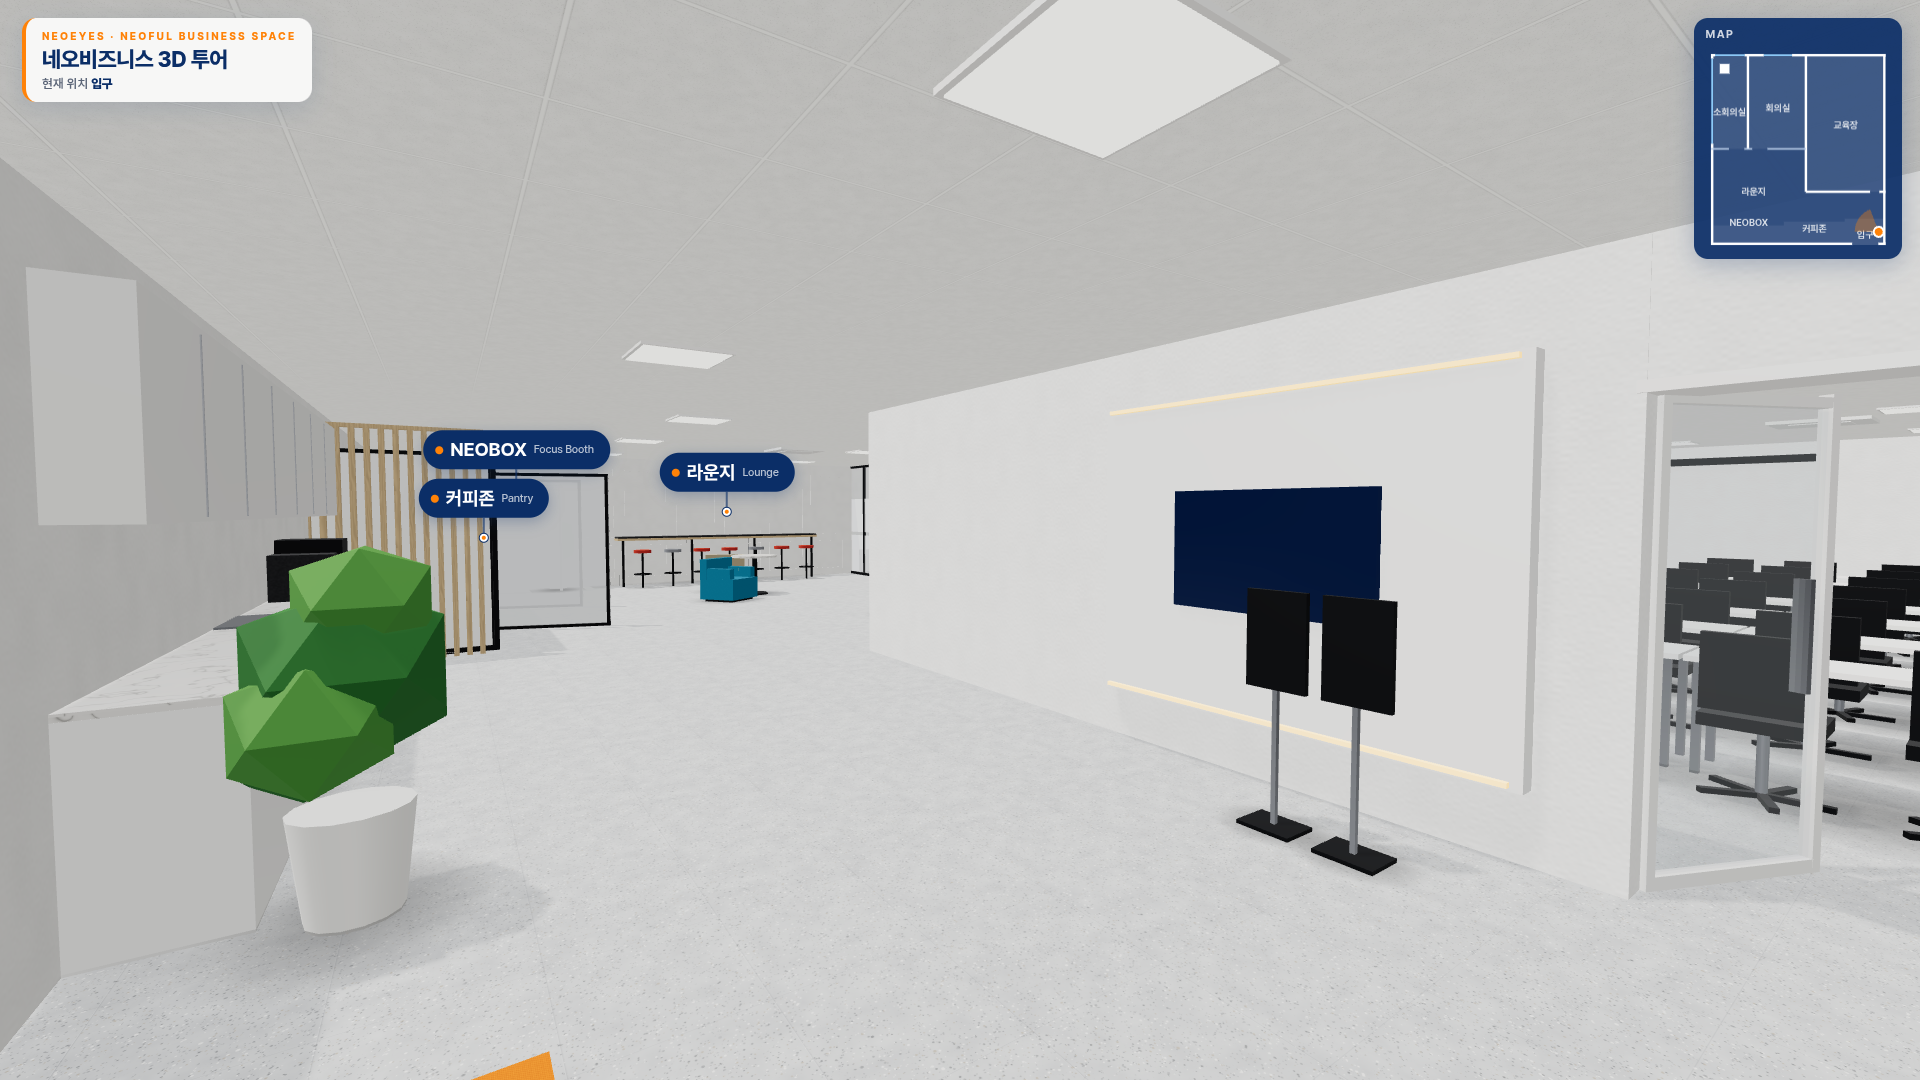
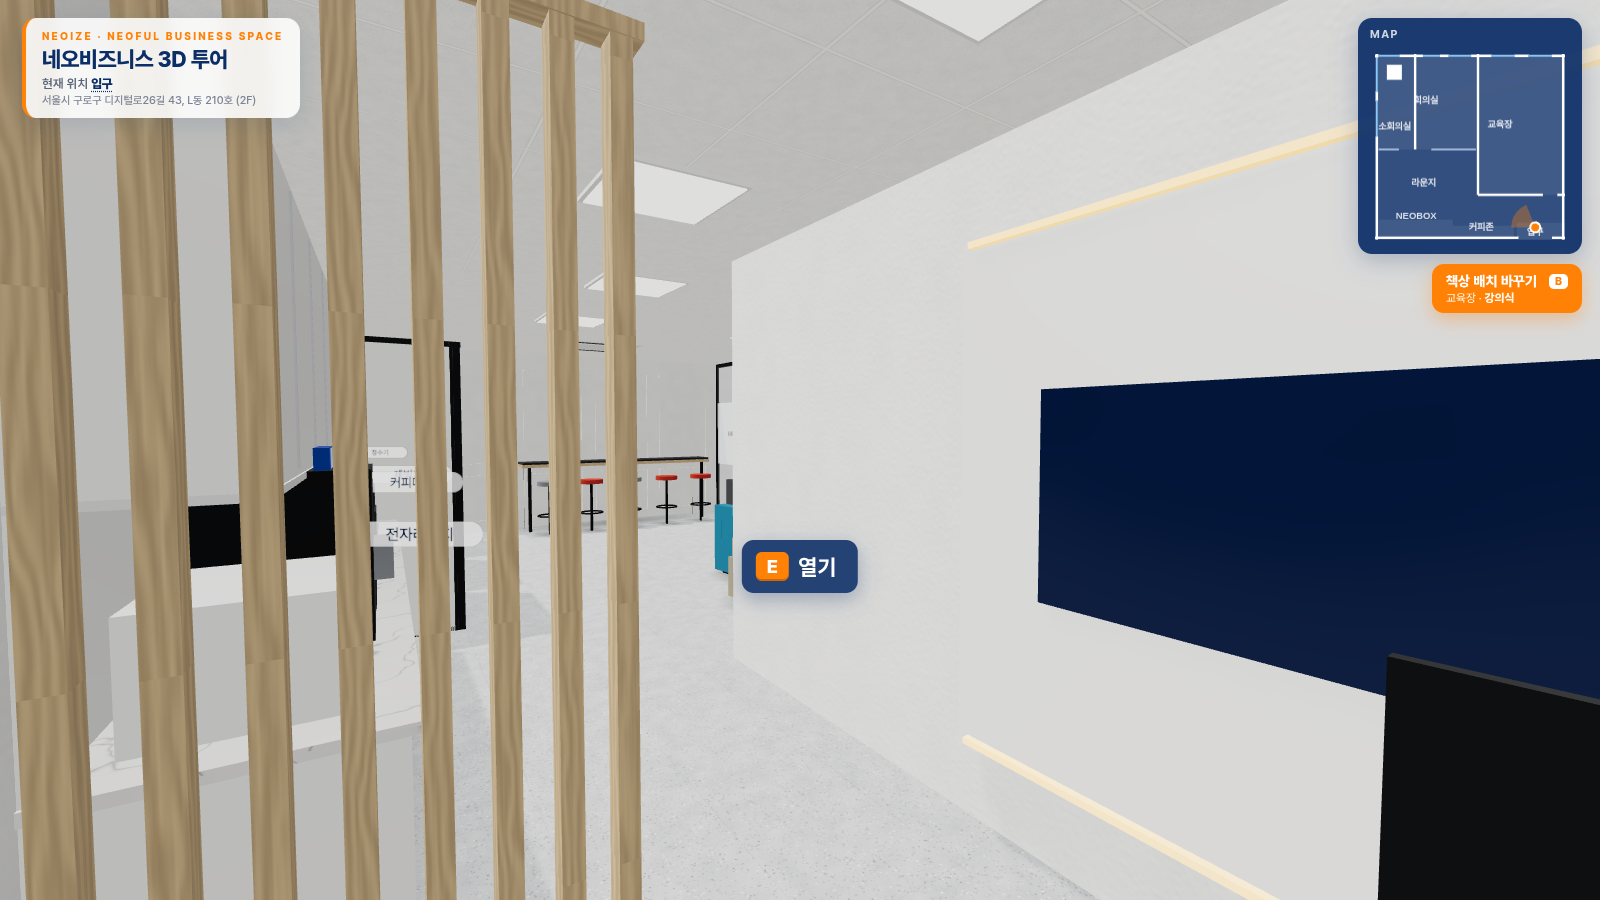
입구를 남쪽 벽 동쪽 끝(가벽 옆)으로, 커피존 카운터 x5.12–8.82, 정수기를 개수대 꼭지로, 교육장 스피커 서쪽 벽 2개

diff --git a/layout.js b/layout.js
@@ -54,14 +54,14 @@ window.LAYOUT = {
     { id:'focus', name:'NEOBOX', en:'Focus Booth · NEOBOX', small:true, rect:[0.24, 10.8, 5.1, 12.1], floor:'floor',
       label:[2.7, 10.55], labelY:2.35, jump:{ x:2.7, z:9.7, look:[2.7, 12.0] },
       card:{ photos:['IMG_0398','IMG_0397','IMG_0401','IMG_0403'],
-             desc:'NEOBOX1 · NEOBOX2 · NEOBOX3, 모니터와 책상이 있는 1인용 부스 3개예요. 커피존 바로 옆, 우드 슬랫 파티션 너머에 나란히 있어요.' } },
-    { id:'coffee', name:'커피존', en:'Pantry', small:true, rect:[7.05, 11.2, 12.45, 12.1], floor:'floor',
-      label:[8.65, 11.3], labelY:1.6, jump:{ x:10.9, z:10.5, look:[7.3, 11.7] },
+             desc:'NEOBOX1 · NEOBOX2 · NEOBOX3, 모니터와 책상이 있는 1인용 부스 3개예요. 남쪽 벽을 따라 커피존 카운터 바로 서쪽에 나란히 있어요.' } },
+    { id:'coffee', name:'커피존', en:'Pantry', small:true, rect:[5.1, 11.2, 9.1, 12.1], floor:'floor',
+      label:[6.97, 11.3], labelY:1.6, jump:{ x:7.0, z:9.9, look:[7.0, 11.8] },
       card:{ photos:['IMG_0386','IMG_0387','IMG_0398'],
              desc:'공용 사용 공간(LOUNGE & AMENITIES). 흰 상·하부장 카운터에 전자레인지, 커피머신, 얼음 디스펜서, 싱크가 있고 하부장에 분리수거함(일반쓰레기·플라스틱·캔/병)이 있어요. 입구 옆 우드 슬랫 가벽 바로 뒤예요.',
              services:['정수기','커피머신','제빙기','전자레인지','공기청정기','냉난방'] } },
-    { id:'entrance', name:'입구', en:'Entrance', small:true, rect:[5.1, 11.0, 7.05, 12.1], floor:'floor',
-      label:[6.05, 11.6], jump:{ x:6.05, z:11.4, look:[8.6, 7.4] },
+    { id:'entrance', name:'입구', en:'Entrance', small:true, rect:[9.3, 11.0, 12.45, 12.1], floor:'floor',
+      label:[10.5, 11.6], jump:{ x:10.5, z:11.3, look:[5.0, 7.6] },
       card:{ photos:['IMG_0378','IMG_0380','IMG_0388'],
              desc:'유리문 위에 Neoful business space 사인이 있는 입구예요. 들어오면 교육장 앞 디스플레이 월과 배너가 보여요.' } },
     { id:'lounge', name:'라운지', en:'Lounge', rect:[0, 6.22, 12.45, 12.1], floor:'floor',
@@ -110,9 +110,9 @@ window.LAYOUT = {
     { from:[0, 3.05],  to:[0, 5.38],  type:'window', outer:true, style:'tall', blind:0 },      // 소회의실 창 ② — 롤스크린 올림
     { from:[0, 5.38],  to:[0, 5.9],   type:'solid',  outer:true },
     { from:[0, 5.9],   to:[0, 12.1],  type:'solid',  outer:true, molding:'east', moldingFrom:6.35, moldingTo:10.7 },  // 라운지 몰딩 벽 (molding: 몰딩을 붙일 면, From~To 구간)
-    // 바깥벽 — 남쪽(아래), 입구 유리 양문 (x5.15–6.95, 가벽 바로 옆)
+    // 바깥벽 — 남쪽(아래), 입구 유리 양문 (동쪽 끝 x9.4–11.6, 가벽 바로 옆)
     { from:[0, 12.1],  to:[12.45, 12.1], type:'solid', outer:true,
-      openings:[ { at:5.15, width:1.8, door:'glass', double:true, entrance:true } ] },   // 입구 유리 양문 x5.15–6.95: NEOBOX3 과 가벽(슬랫, x7.05) 사이, 가벽 바로 옆 (사용자 11/19)
+      openings:[ { at:9.4, width:2.2, door:'glass', double:true, entrance:true } ] },   // 입구 유리 양문 x9.4–11.6: 남쪽 벽 동쪽 끝, 가벽(슬랫 x9.1) 바로 옆 (사용자 스케치 11/19 3차)
     // 바깥벽 — 동쪽(오른쪽)
     { from:[12.45, 0], to:[12.45, 12.1], type:'solid', outer:true },
 
@@ -172,11 +172,9 @@ window.LAYOUT = {
   /* ---------- 교육장 벽걸이 스피커 ----------
      x, z : 위치(벽 안쪽 면에서 약 0.12m), rot : 앞면이 향하는 방향(°, 180 = 남쪽, -90 = 동쪽, 90 = 서쪽)
      tilt : 아래로 숙인 각도(°), w·h·d : 크기(기본 0.25 × 0.35 × 0.2), top : 위 끝 높이(기본 천장 바로 아래)   */
-  speakers: [
-    { x:7.12,  z:0.36, rot:200 },   // 앞벽(북쪽) 왼쪽 모서리, 방 안쪽으로 살짝
-    { x:12.0,  z:0.36, rot:160 },   // 앞벽(북쪽) 오른쪽 모서리
-    { x:7.02,  z:7.6,  rot:-90 },   // 서쪽 벽 뒤쪽 (단상에서 본 사진)
-    { x:12.09, z:5.0,  rot:90 }     // 동쪽 벽 가운데
+  speakers: [   // 교육장 서쪽 벽 높은 곳, 동쪽(방 안)을 향함 — 사용자 스케치 11/19: 앞(단상 옆) 1개, 뒤 1개
+    { x:7.02, z:0.5, rot:-90 },
+    { x:7.02, z:8.2, rot:-90 }
   ],
 
   /* ---------- 교육장 책상 배치 (화면 오른쪽 위 "책상 배치 바꾸기" 버튼 / B 키로 순서대로 바뀜) ----------
@@ -220,7 +218,7 @@ window.LAYOUT = {
       lines:['연결 케이블: (예: HDMI) — 수정 필요', '리모컨 위치: (예: 강사 단상 서랍) — 수정 필요', '사용 방법: (예: 전원 → 입력 HDMI 선택) — 수정 필요'] },
     { id:'edu_screen', name:'전동 스크린', room:'교육장', box:[8.3, 0.5, 10.8, 0.8, 1.05, 2.7],
       lines:['내리기/올리기: (예: 벽 스위치) — 수정 필요', '크기: 약 2.4m 폭(3D 모델 기준)'] },
-    { id:'edu_speaker', name:'스피커', room:'교육장', boxes:[[6.9, 0.2, 7.35, 0.6, 2.2, 2.7], [11.8, 0.2, 12.25, 0.6, 2.2, 2.7], [6.88, 7.35, 7.25, 7.85, 2.2, 2.7], [11.9, 4.75, 12.25, 5.25, 2.2, 2.7]],
+    { id:'edu_speaker', name:'스피커', room:'교육장', boxes:[[6.85, 0.2, 7.3, 0.8, 2.2, 2.7], [6.85, 7.9, 7.3, 8.5, 2.2, 2.7]],
       lines:['음량 조절: (예: 앰프·리모컨 위치) — 수정 필요', '마이크: (예: 무선 마이크 2개) — 수정 필요'] },
     { id:'edu_ac', name:'에어컨', room:'교육장', box:[9.15, 3.45, 10.25, 4.55, 2.5, 2.75],
       lines:['리모컨/조작: (예: 출입문 옆 벽 컨트롤러) — 수정 필요'] },
@@ -239,13 +237,13 @@ window.LAYOUT = {
     { id:'mtg_table', name:'회의 테이블', room:'회의실', box:[4.14, 0.78, 5.12, 5.18, 0.6, 0.8],
       lines:['테이블 2개 · 12석', '전원: (예: 테이블 콘센트) — 수정 필요'] },
     // 커피존 (항상 이름 표시)
-    { id:'microwave', name:'전자레인지', room:'커피존', box:[9.52, 11.3, 10.02, 11.8, 0.9, 1.22], label:true,
+    { id:'microwave', name:'전자레인지', room:'커피존', box:[8.19, 11.3, 8.69, 11.8, 0.9, 1.22], label:true,
       lines:['사용 후 문을 닫아 주세요 (예시) — 수정 필요'] },
-    { id:'coffee', name:'커피머신', room:'커피존', box:[9.1, 11.3, 9.45, 11.8, 0.9, 1.62], label:true,
+    { id:'coffee', name:'커피머신', room:'커피존', box:[7.77, 11.3, 8.12, 11.8, 0.9, 1.62], label:true,
       lines:['사용 방법: (예: 컵 올리고 메뉴 선택) — 수정 필요', '원두 보충: (예: 상부장) — 수정 필요'] },
-    { id:'ice', name:'제빙기', room:'커피존', box:[8.68, 11.3, 9.03, 11.8, 0.9, 1.37], label:true,
+    { id:'ice', name:'제빙기', room:'커피존', box:[7.35, 11.3, 7.7, 11.8, 0.9, 1.37], label:true,
       lines:['사용 방법: (예: 컵을 대고 버튼) — 수정 필요'] },
-    { id:'water', name:'정수기', room:'커피존', box:[8.04, 11.3, 8.26, 11.8, 0.9, 1.34], label:true,
+    { id:'water', name:'정수기', room:'커피존 · 개수대', boxes:[[5.25, 11.3, 5.85, 11.86, 0.88, 1.38]], labelAt:[5.55, 1.42, 11.32], label:true,
       lines:['냉수·온수: (예: 온수 잠금 버튼) — 수정 필요'] }
   ],
 
@@ -297,10 +295,10 @@ window.LAYOUT = {
     { type:'booth', x:2.685, z:11.4, w:1.29, d:1.2, label:'NEOBOX2' },   // x2.04–3.33
     { type:'booth', x:4.395, z:11.4, w:1.29, d:1.2, label:'NEOBOX3' },   // x3.75–5.04
 
-    /* --- 입구(x5.15–6.95) + 가벽(슬랫 x7.05) + 커피존 카운터 --- */
-    { type:'slats', from:[7.05, 11.85], to:[7.05, 10.85], h:2.45, count:9, thick:true },   // 가벽: 입구와 커피존 카운터 사이
-    { type:'pantry', x:8.65, z:11.56, w:3.0 },   // 커피존 카운터 x7.15–10.15 (싱크 끝이 가벽에 붙음): 동쪽부터 전자레인지·커피머신·얼음통·싱크
-    { type:'zzPlant', x:10.45, z:11.6, scale:1.25 },   // 카운터 시작 전 흰 화분 ZZ 플랜트
+    /* --- 커피존 카운터(x5.12–8.82) + 가벽(슬랫 x9.1) + 입구(x9.4–11.6) — 남쪽 벽, 서쪽부터 NEOBOX → 카운터 → 가벽 → 입구 --- */
+    { type:'slats', from:[9.1, 11.85], to:[9.1, 10.85], h:2.45, count:9, thick:true },   // 가벽: 커피존 카운터 동쪽 끝과 입구 사이
+    { type:'pantry', x:6.97, z:11.56, w:3.7 },   // 커피존 카운터 x5.12–8.82: 동쪽(가벽 쪽)부터 전자레인지·커피머신·얼음통 … 서쪽 끝 싱크+정수기
+    { type:'zzPlant', x:12.05, z:11.7, scale:1.25 },   // 흰 화분 ZZ 플랜트 (입구 동쪽 모서리)
 
     /* --- 라운지 --- */
     { type:'barCounter', x:0.39, z:8.1, w:0.5, d:3.0, h:1.04 },         // 서쪽 몰딩 벽 바 테이블
@@ -316,6 +314,6 @@ window.LAYOUT = {
     { type:'purifier', x:6.35, z:8.6 },
 
     /* --- 입구 --- */
-    { type:'mat', x:6.05, z:11.4, w:1.6, d:0.9, color:'orange' }
+    { type:'mat', x:10.5, z:11.4, w:1.8, d:0.9, color:'orange' }
   ]
 };

diff --git a/index.html b/index.html
@@ -144,8 +144,8 @@ body.walk .tag{display:none}   /* 걷기: 방 이름 핀은 숨기고 왼쪽 위
   </div>
 </aside>
 <!-- 공간 설정: 치수·가구 배치는 layout.js 에서 수정 -->
-<script src="layout.js?v=11191230"></script>
+<script src="layout.js?v=11191330"></script>
 <script type="importmap">{"imports":{"three":"./lib/three.module.min.js","three/addons/":"./lib/addons/"}}</script>
-<script type="module" src="app.js?v=11191230"></script>
+<script type="module" src="app.js?v=11191330"></script>
 </body>
 </html>

diff --git a/수정방법.md b/수정방법.md
@@ -274,4 +274,9 @@ ceiling: { panels:[ { rect:[x1,z1,x2,z2], nx:2, nz:3 } ],  aircon:[[x,z], ...] }
   마우스가 닿은 물체의 지점이 이 상자 안에 있으면 그 항목이 표시됩니다. 새 장비를 추가할 땐 미니맵/furniture 의 x·z 좌표를 보고 상자를 잡으면 됩니다.
 - `label:true` 면 이름을 항상 작은 글씨로 띄웁니다(커피존 전자레인지·커피머신·제빙기·정수기). 위치는 `labelAt:[x, y, z]` 로 바꿀 수 있어요.
 - 처음 들어간 안내 문구의 `(예: …) — 수정 필요` 는 예시이니 실제 내용(케이블 종류, 리모컨 위치 등)으로 바꿔 주세요.
-- 커피존 카운터(`pantry`)에는 싱크 옆에 흰 카운터형 정수기가 들어 있습니다.
+- 정수기는 개수대에 있습니다(`pantry`): 높은 크롬 수전 옆의 작은 정수 꼭지 + 백스플래시의 흰 정수기 본체. 툴팁/라벨 상자도 개수대 위에 있습니다.
+
+## 남쪽 벽 배치 (11/19 스케치 3차)
+- 서쪽부터 NEOBOX 1·2·3(x0.34–5.04) → 커피존 카운터 `pantry`(x5.12–8.82, 중심 x6.97, 폭 3.7) → 가벽 슬랫(x9.1) → 입구 유리 양문(x9.4–11.6, 남쪽 벽 `openings` 의 `at:9.4, width:2.2`).
+- 카운터는 동쪽(가벽 쪽) 끝부터 전자레인지·커피머신·제빙기, 서쪽 끝에 싱크+정수기 꼭지. 카운터를 옮기면 `equipment` 의 커피존 상자(box)도 같이 옮겨 주세요.
+- 교육장 스피커는 서쪽 벽 높은 곳 2개(z0.5, z8.2) — `speakers` 목록.
